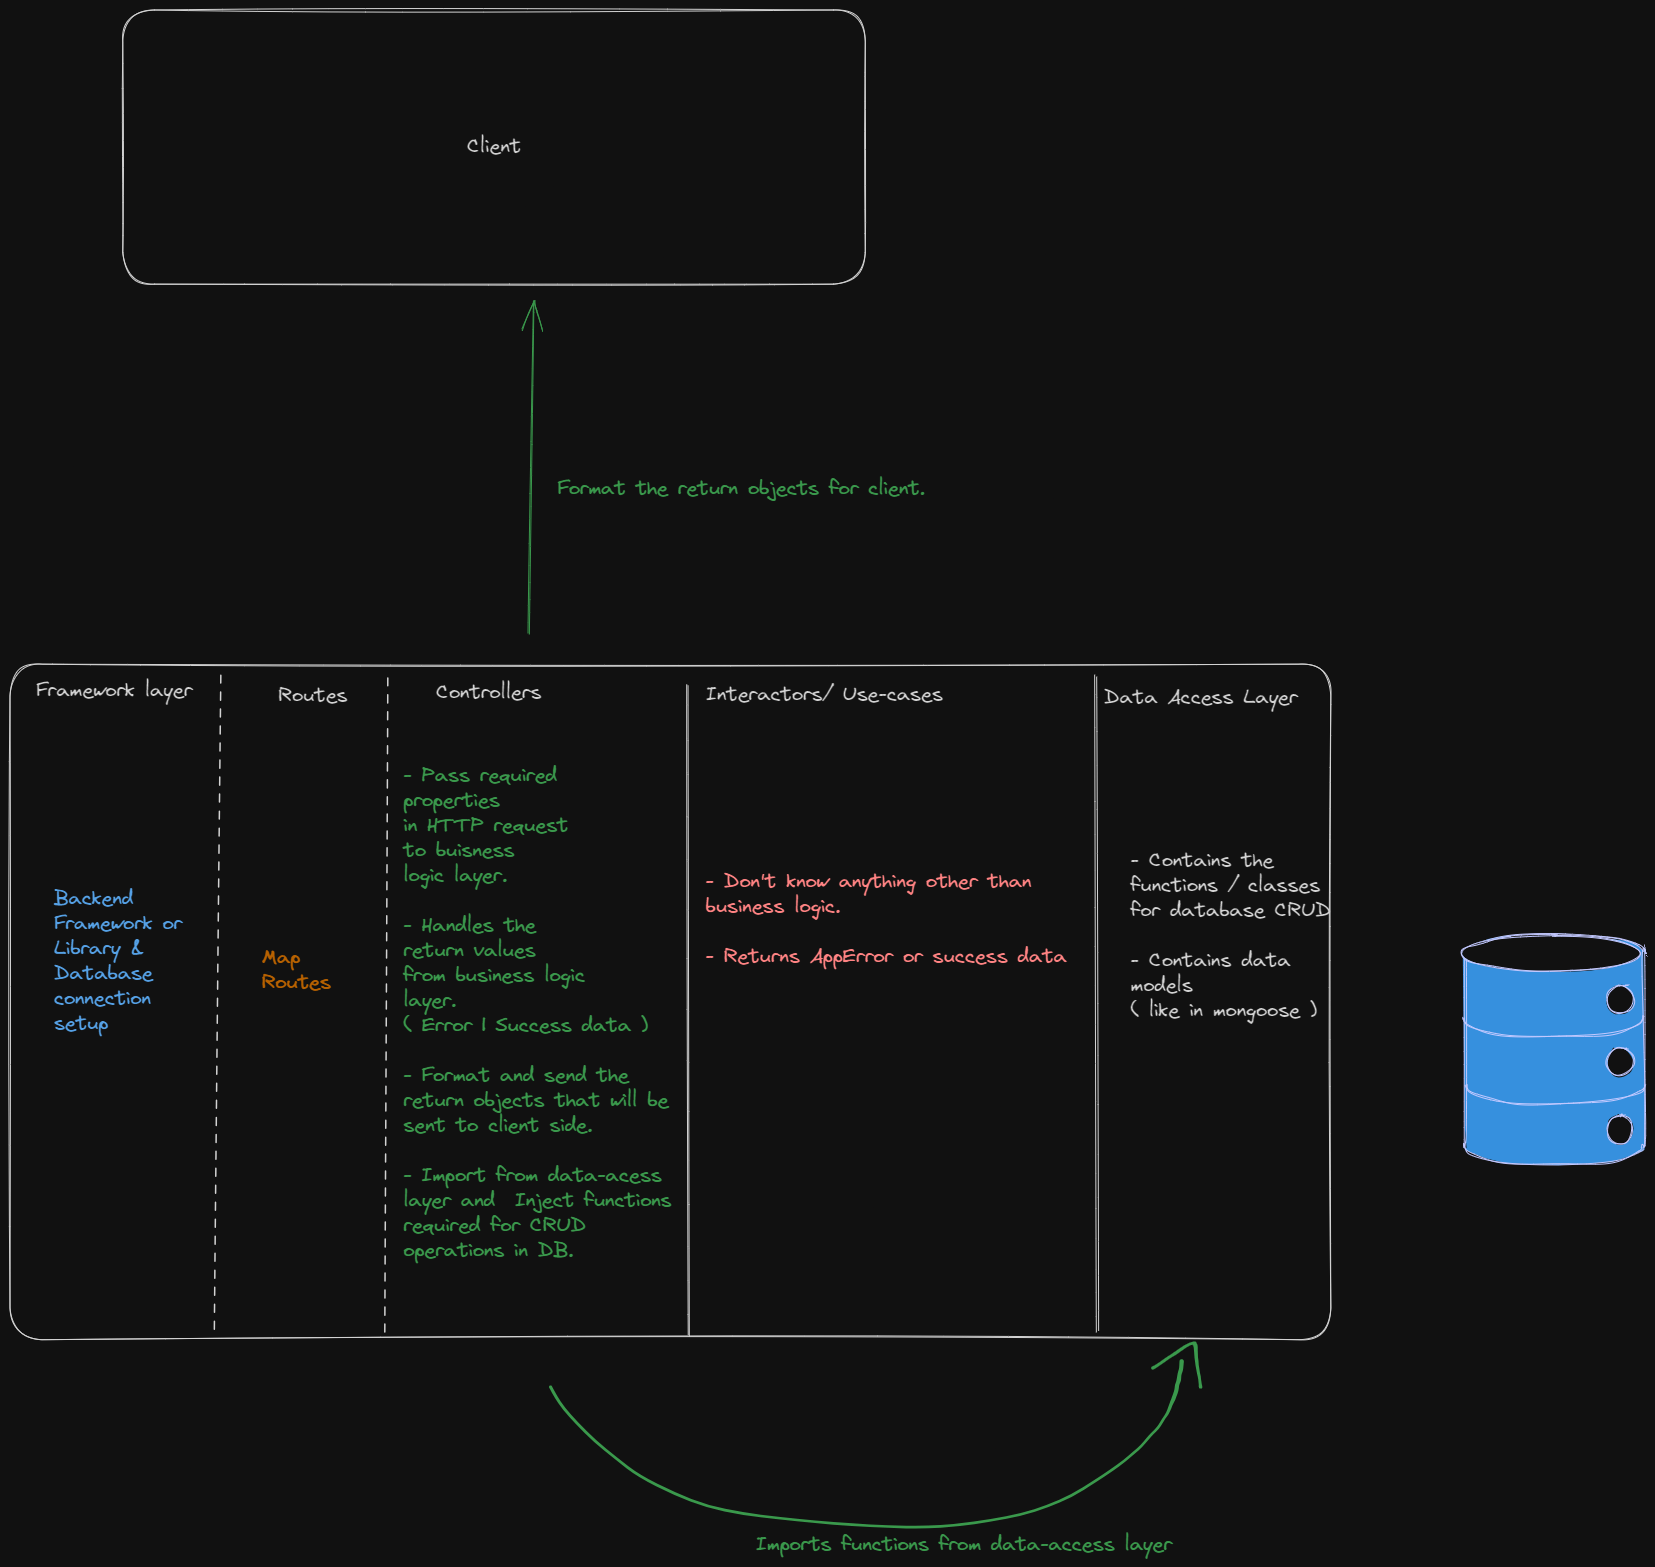
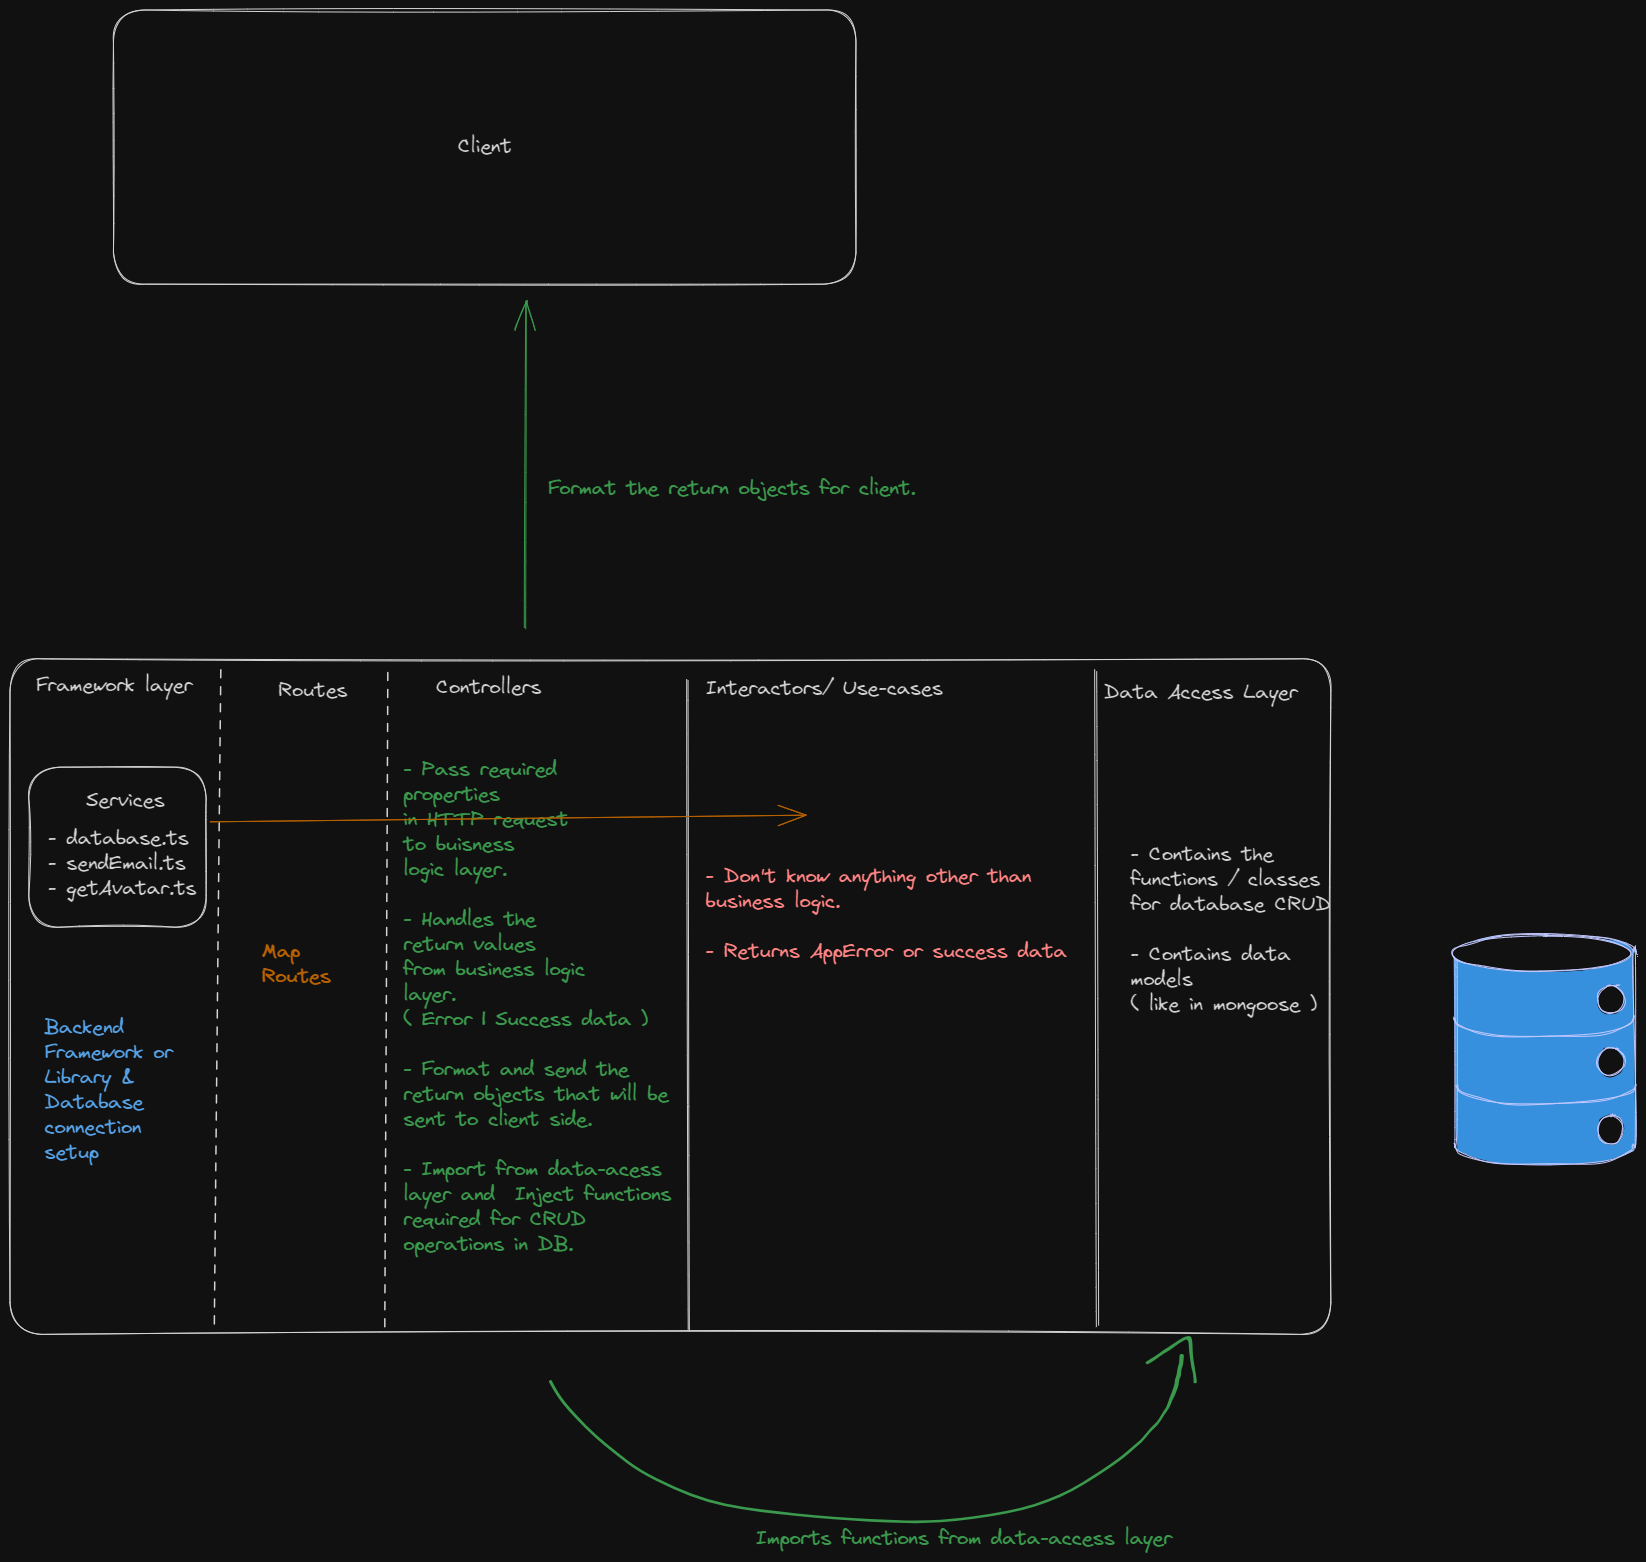
improvements

diff --git a/src/server.ts b/src/server.ts
@@ -1,13 +1,12 @@
 import express, { NextFunction } from "express";
-import mongoose from "mongoose";
 import cors from "cors";
-import { GET_DB_URL, GET_FRONTEND_URL, winston_format } from "./config";
-import logger from "./logger";
+import { GET_FRONTEND_URL } from "./config";
 import { IRequest } from "./types/vendor/IRequest";
 import { IResponse } from "./types/vendor/IResponse";
 import userRouter from "./routes/userRouter";
 import AppError from "./utils/error-handling/AppErrror";
 import appErrorHandler from "./utils/error-handling/appErrorHandler";
+import { dbConnect } from "./services/database";
 const { PORT } = process.env;
 const app = express();
 
@@ -38,12 +37,12 @@ app.all("*", (req: IRequest, res: IResponse, next: NextFunction): void => {
   appErrorHandler(AppError.notFound("Route not found"), req, res, next);
 });
 
-mongoose
-  .connect(GET_DB_URL())
-  .then(() => {
-    logger.info("DB connected");
+// Start database connection and server
+if (require.main === module) {
+  (async function () {
+    await dbConnect();
     app.listen(PORT, () => {
-      logger.info("Server is running");
+      console.info(`Server is running on port ${PORT}`);
     });
-  })
-  .catch((err) => logger.error("DB connection error", err));
+  })();
+}

diff --git a/src/controllers/userController.ts b/src/controllers/userController.ts
@@ -5,12 +5,13 @@ import AppError from "../utils/error-handling/AppErrror";
 import errHandlerAsync from "../utils/error-handling/errHandlerAsync";
 import { isIinteractorReturn } from "../types/generalTypes";
 import appErrorHandler from "../utils/error-handling/appErrorHandler";
+import userDB from "../data-access/user.db";
 
 function makeCreateUserController(): TExpressCallback {
   return async (req, res, next) => {
     const { username, password } = req.body;
     const createUserDB = {
-      saveUser: () => console.log("saving user"),
+      saveUser: userDB.saveUser,
     };
     const [result, unHandledErr] = await errHandlerAsync(
       createUserInteractor(username, password, createUserDB),
@@ -19,9 +20,9 @@ function makeCreateUserController(): TExpressCallback {
       appErrorHandler(unHandledErr, req, res, next);
       return;
     } else if (isIinteractorReturn(result)) {
-      const { appError } = result;
-      if (appError === null) {
-        const createdUser = {};
+      const { appError, sucessData } = result;
+      if (appError === null && sucessData !== null) {
+        const { createdUser } = sucessData as { createdUser: any };
         AppResponse.created(res, "User created", createdUser);
         return;
       }

diff --git a/src/services/database.ts b/src/services/database.ts
@@ -1,0 +1,20 @@
+import mongoose from "mongoose";
+import { GET_DB_URL } from "../config";
+
+mongoose.connection.once("open", () => {
+  console.info("MongoDB connection ready!");
+});
+
+mongoose.connection.on("error", (err) => {
+  console.error("MongoDB connection error:", err);
+});
+
+async function dbConnect() {
+  await mongoose.connect(GET_DB_URL());
+}
+
+async function dbDisconnect() {
+  await mongoose.disconnect();
+}
+
+export { dbConnect, dbDisconnect };

diff --git a/src/data-access/user.db.ts b/src/data-access/user.db.ts
@@ -1,10 +1,12 @@
-import User from "../data-access/models/exModel";
+import UserModel from "../data-access/models/exModel";
 
 async function saveUser() {
-  const createdUser = new User({
+  const createdUser = new UserModel({
     name: "test",
     email: "XXXXXXXXXXXXX",
     // etc..
   });
-  await createdUser.save();
+  return await createdUser.save();
 }
+
+export default { saveUser };

diff --git a/src/interactors/user.interactor.ts b/src/interactors/user.interactor.ts
@@ -2,7 +2,7 @@ import { IinteractorReturn, TRequestProperty } from "../types/generalTypes";
 import AppError from "../utils/error-handling/AppErrror";
 
 interface ICreateUserDB {
-  saveUser(): void;
+  saveUser(): Promise<unknown>;
 }
 
 async function createUser(

diff --git a/src/services/sendEmail.ts b/src/services/sendEmail.ts
@@ -1,0 +1,1 @@
+// call any third party api for sending e-mails. Can be changed any time later.
